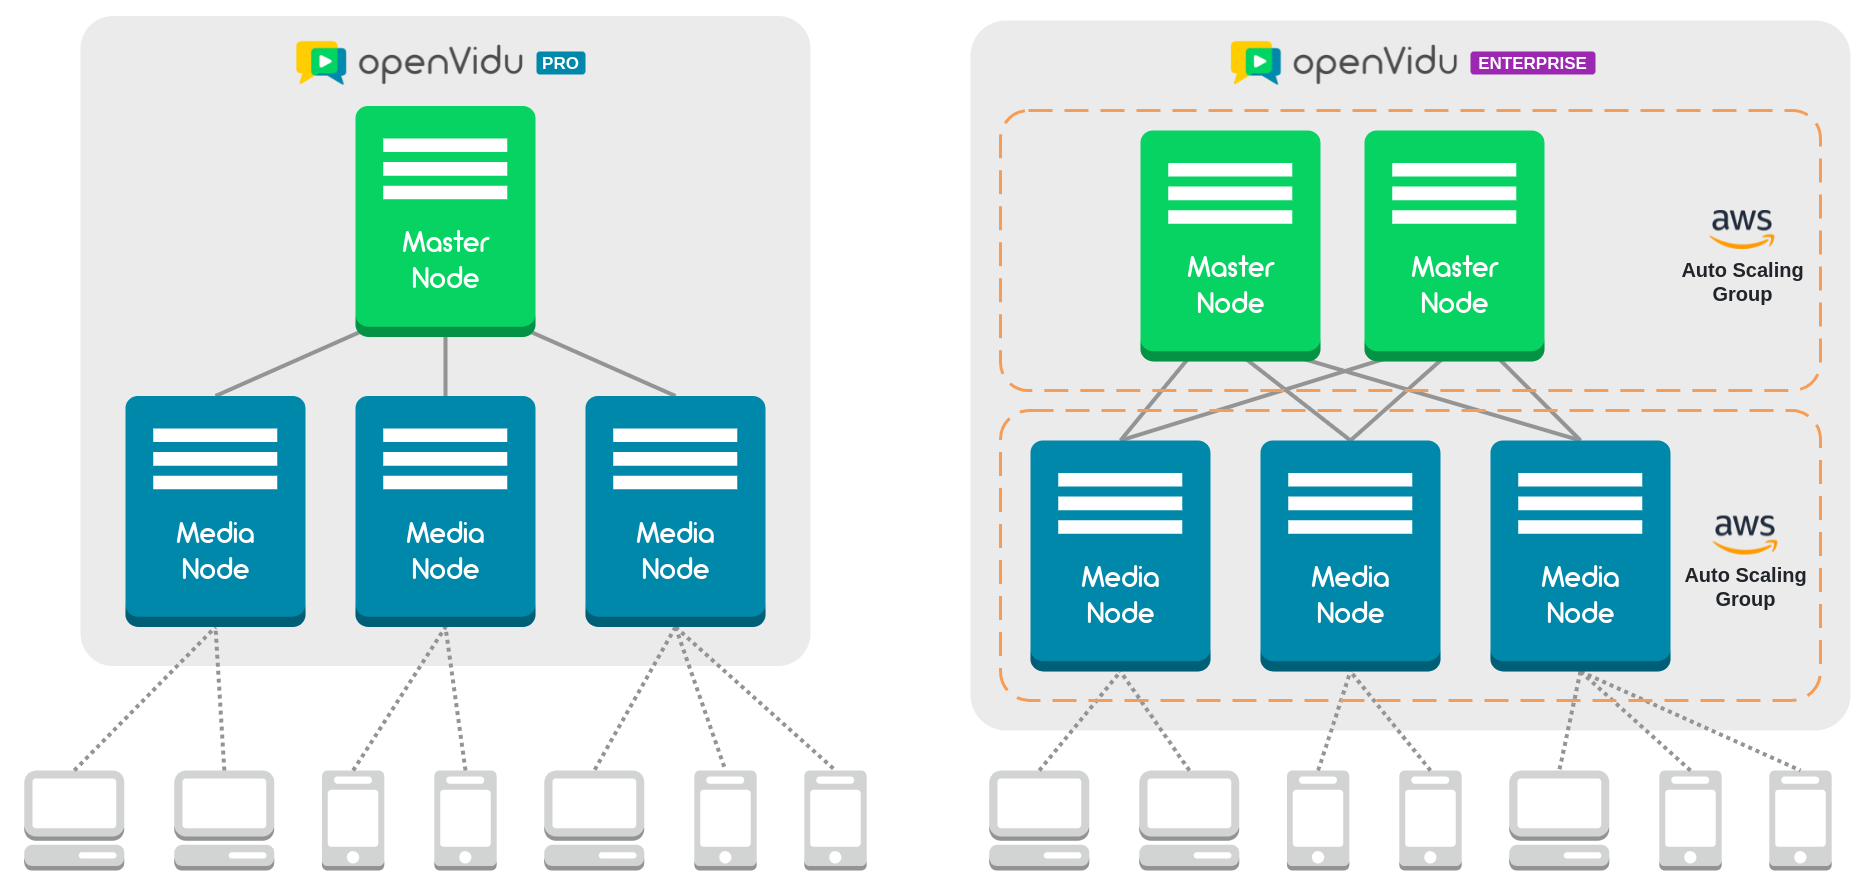
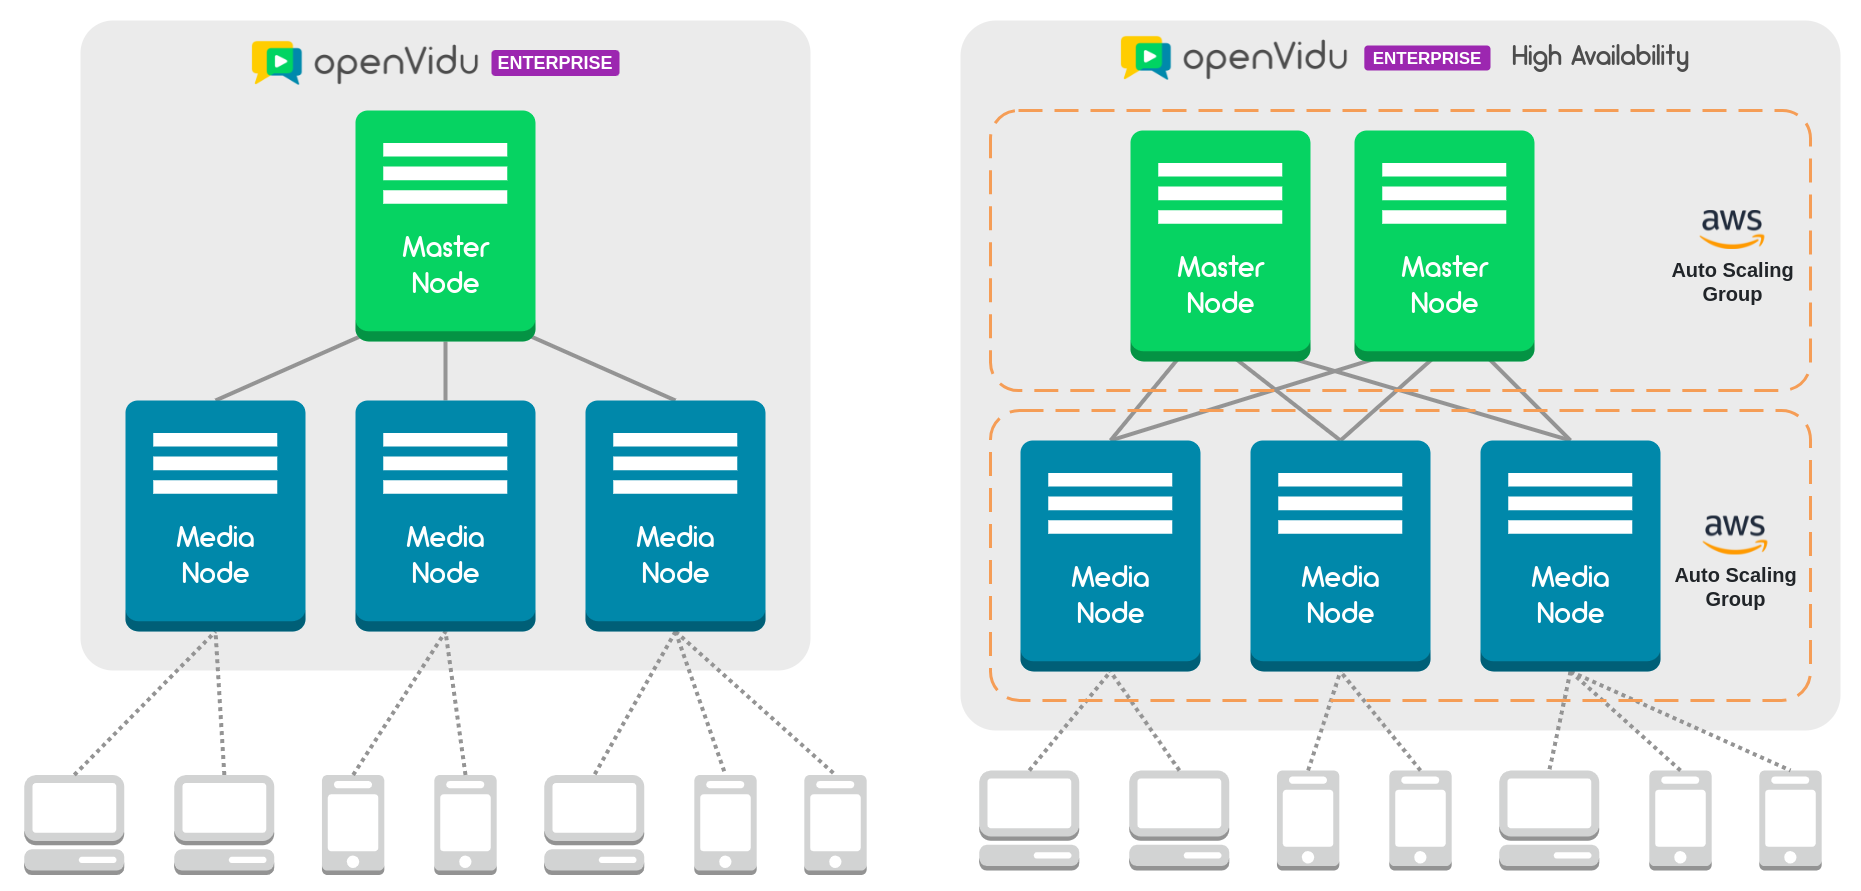
Add new image in OpenVidu Enterprise Home page

diff --git a/docs/openvidu-enterprise/index.md b/docs/openvidu-enterprise/index.md
@@ -5,8 +5,8 @@
     - [5x more media streams](#5x-more-media-streams)
     - [5x quicker connections](#5x-quicker-connections)
     - [Media quality improvements](#media-quality-improvements)
-    - [100% compatible with your current OpenVidu applications](#100-compatible-with-your-current-openvidu-applications)
     - [High Availability deployment option](#high-availability-deployment-option)
+    - [100% compatible with your current OpenVidu applications](#100-compatible-with-your-current-openvidu-applications)
 - **[Kurento vs mediasoup](#kurento-vs-mediasoup)**
     - [Additional mediasoup limitations](#additional-mediasoup-limitations)
     - [Using Kurento in OpenVidu Enterprise](#using-kurento-in-openvidu-enterprise)
@@ -348,15 +348,19 @@ OpenVidu Enterprise with mediasoup raises the bar of what is possible with adapt
 
     Popular web browsers such as Google Chrome have integrated VP9 support for a while now, other browsers are slowly getting onboard, and OpenVidu will allow you to benefit from it too.
 
+#### High Availability deployment option
+
+OpenVidu Enterprise offers a High Availability deployment option in AWS, with replication of all nodes and load balancing for clients. Visit the [High Availability](openvidu-enterprise/high-availability/) documentation for further information.
+
+<p align="center">
+  <img class="img-responsive xcode-img" style="padding: 25px 0; max-width: 500px" src="img/docs/openvidu-enterprise/ha-alone.png">
+</p>
+
 #### 100% compatible with your current OpenVidu applications
 
 OpenVidu hides all complexity that lies behind swapping Media Server technologies: New SDKs, architecture changes, etc...
 
 With OpenVidu, there's no need to change a single line of your application: **what used to work with OpenVidu Pro will work as-is with OpenVidu Enterprise**.
-
-#### High Availability deployment option
-
-OpenVidu Enterprise offers a High Availability deployment option in AWS, with replication of all nodes and load balancing for clients. Visit the [High Availability](openvidu-enterprise/high-availability/) documentation for further information.
 
 <br>
 

diff --git a/docs/openvidu-enterprise/high-availability.md b/docs/openvidu-enterprise/high-availability.md
@@ -13,7 +13,7 @@
 
 OpenVidu Enterprise offers a High Availability (HA) deployment option in AWS, with replication of all nodes and load balancing for clients. It is made up of 2 different AWS Auto-Scaling groups, managing the 2 different types of nodes of [OpenVidu's Master-Worker architecture](openvidu-pro/scalability/#openvidu-pro-architecture).
 
-The main difference between a regular OpenVidu Pro deployment and OpenVidu Enterprise HA deployment is the replication of Master Nodes. In the image below, on the left a regular OpenVidu Pro deployment and on the right an OpenVidu Enterprise HA deployment:
+The main difference between an OpenVidu Enterprise Single Master deployment and an OpenVidu Enterprise HA deployment is the replication of Master Nodes. In the image below, on the left an OpenVidu Enterprise Single Master deployment and on the right an OpenVidu Enterprise HA deployment:
 
 <div class="row">
     <div class="pro-gallery" style="margin: 25px 15px 25px 15px">
